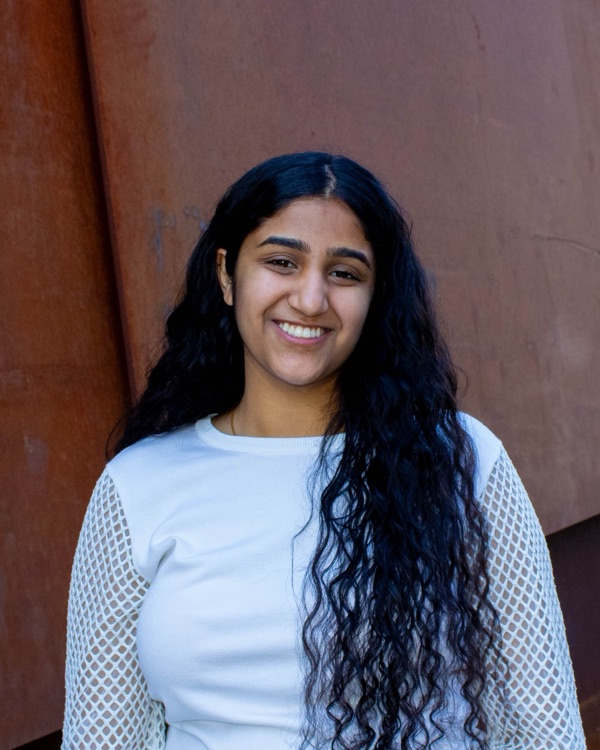
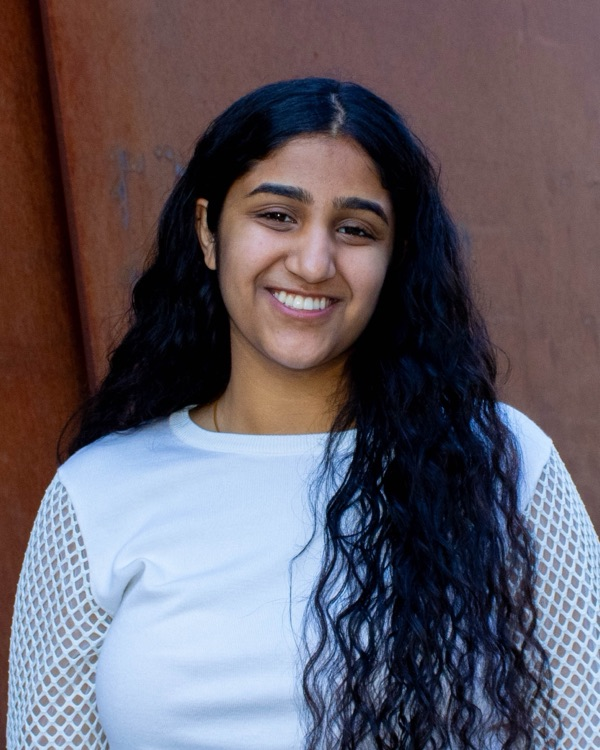
Zoom in on Gurvani's photo; lower Pranati's slightly

diff --git a/leadership.html b/leadership.html
@@ -113,7 +113,7 @@
             <p>Project Chair</p>
           </li>
           <li class="person">
-            <img src="assets/team/pranati-bala.jpg?v=3" alt="Pranati Bala" width="600" height="750" loading="lazy">
+            <img src="assets/team/pranati-bala.jpg?v=4" alt="Pranati Bala" width="600" height="750" loading="lazy">
             <h3>Pranati Bala</h3>
             <p>Project Chair</p>
           </li>
@@ -123,7 +123,7 @@
             <p>Professional Relations Chair</p>
           </li>
           <li class="person">
-            <img src="assets/team/gurvani-singh.jpg" alt="Gurvani Singh" width="600" height="750" loading="lazy">
+            <img src="assets/team/gurvani-singh.jpg?v=2 alt="Gurvani Singh" width="600" height="750" loading="lazy">
             <h3>Gurvani Singh</h3>
             <p>Financial Chair</p>
           </li>
